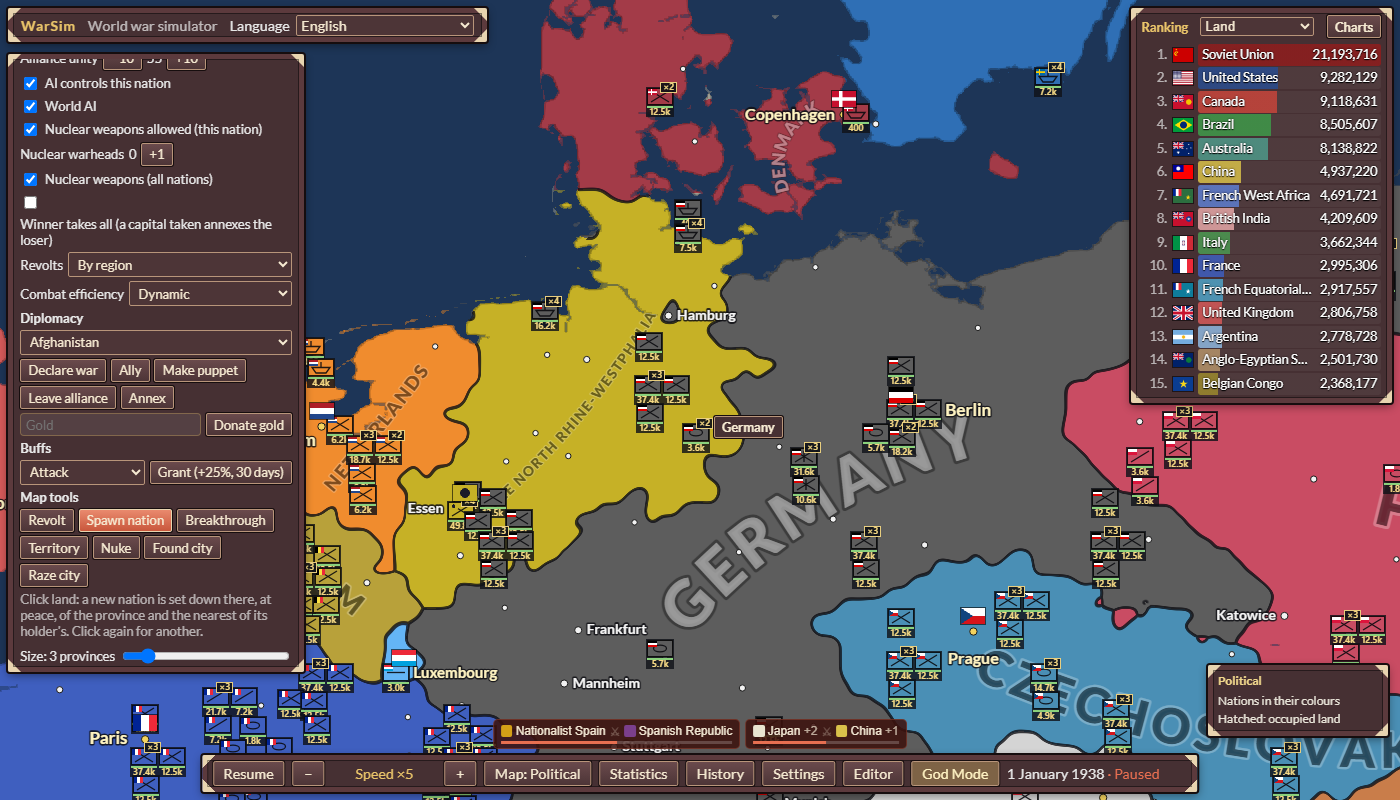
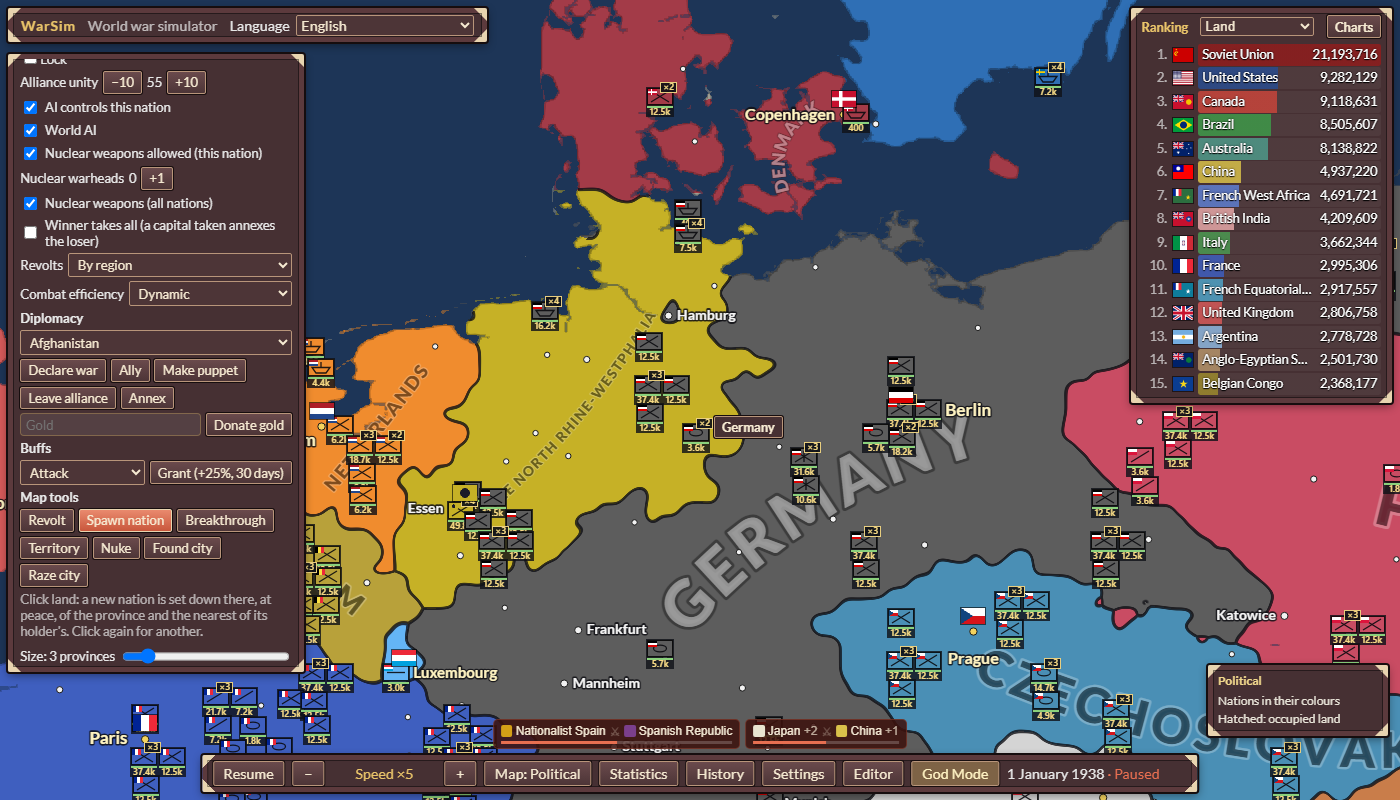
PLAN 7.4f27: the God tab's checkboxes beside their words
A checkbox row does not wrap; its words wrap beside the box. "Winner
takes all (a capital taken annexes the loser)" went under its box.

Claude-Session: https://claude.ai/code/session_018U3yBjvLEmwAi2BbRYrcnj

diff --git a/tests/e2e/godPanelMore1938.spec.ts b/tests/e2e/godPanelMore1938.spec.ts
@@ -166,4 +166,21 @@ test('God Mode: the world\'s rules set in the game (PLAN 7.4f19)', async ({ page
   await expect.poll(async () => (await rules()).ceMode).toBe('random');
   // The controls show the world's state.
   await expect(page.getByTestId('god-ce-mode')).toHaveValue('random');
+  // PLAN 7.4f27: each box's words begin on its line, beside it (Winner takes all's went under it,
+  // the box alone on a line).
+  const apart = await page.locator('.god-tab label.god-row:has(> input[type="checkbox"])').evaluateAll((labels) =>
+    labels.map((l) => {
+      const box = l.querySelector('input')!.getBoundingClientRect();
+      const range = document.createRange();
+      range.selectNodeContents(l);
+      range.setStartAfter(l.querySelector('input')!);
+      const first = range.getClientRects()[0]!;
+      return { text: l.textContent!.trim(), below: first.top - box.bottom, left: first.left - box.right };
+    }),
+  );
+  expect(apart.length).toBeGreaterThanOrEqual(5);
+  for (const a of apart) {
+    expect(a.below, `"${a.text}" begins beside its box, not under it`).toBeLessThan(0);
+    expect(a.left, `"${a.text}" right of its box`).toBeGreaterThanOrEqual(0);
+  }
 });

diff --git a/src/app/style.css b/src/app/style.css
@@ -505,6 +505,14 @@ body {
   gap: 0.3rem;
   margin: 0.25rem 0;
 }
+/* A box and its words on one line, the words wrapping beside the box (PLAN 7.4f27: "Winner takes
+   all (a capital taken annexes the loser)" went under its box, which stood alone on a line). */
+.god-tab label.god-row:has(> input[type='checkbox']) {
+  flex-wrap: nowrap;
+}
+.god-tab label.god-row > input[type='checkbox'] {
+  flex-shrink: 0;
+}
 .god-tab input:not([type='checkbox']),
 .god-tab select {
   flex: 1;

diff --git a/PROGRESS.md b/PROGRESS.md
@@ -17259,3 +17259,13 @@ No rule changed and nothing on screen changed. One task came out of it.
 - **Seen:** the God tab's "Winner takes all" checkbox stands on a line of its own above its label
   (in the picture); not looked into.
 - **Next:** PLAN 7.4f, the next group.
+
+## 2026-10-16 — PLAN 7.4f27: the God tab's checkboxes beside their words (UI)
+
+- **Start:** gate green on a clean tree (`1caa739`); critic not due.
+- **Done:** a label row of the God tab with a checkbox does not wrap; its words wrap beside the
+  box (`style.css`). Seen in 7.4f26's picture, shot again with the fix
+  (`docs/evidence/7.4/f26-spawn-nation.png`).
+- **Tests:** `godPanelMore1938` "the world's rules" (new: every box's words begin on its line;
+  red before: "Winner takes all ..." under its box).
+- **Next:** PLAN 7.4f, the next group.

diff --git a/PLAN.md b/PLAN.md
@@ -123,6 +123,8 @@ quick sweep as a smoke test.
     - [x] 7.4f26 AoC's Spawn Nations with its initial size: a God map tool and a command
       (`spawnNation`: the province clicked and the nearest of its holder's, 1 to 24, at peace). AT:
       `godMode.test.ts`; `godPanelMore1938`.
+    - [x] 7.4f27 The God tab's checkboxes: a box's words wrap beside it (Winner takes all's went
+      under its box, seen in 7.4f26's picture). AT: `godPanelMore1938` (red before).
   From the Phase 2 review (PLAN 2.11c, 2026-10-05). Each group is one look at one thing; split
   when taken up.
   - **Tanks of two elements of a deployed block drawn in one another** (measured
